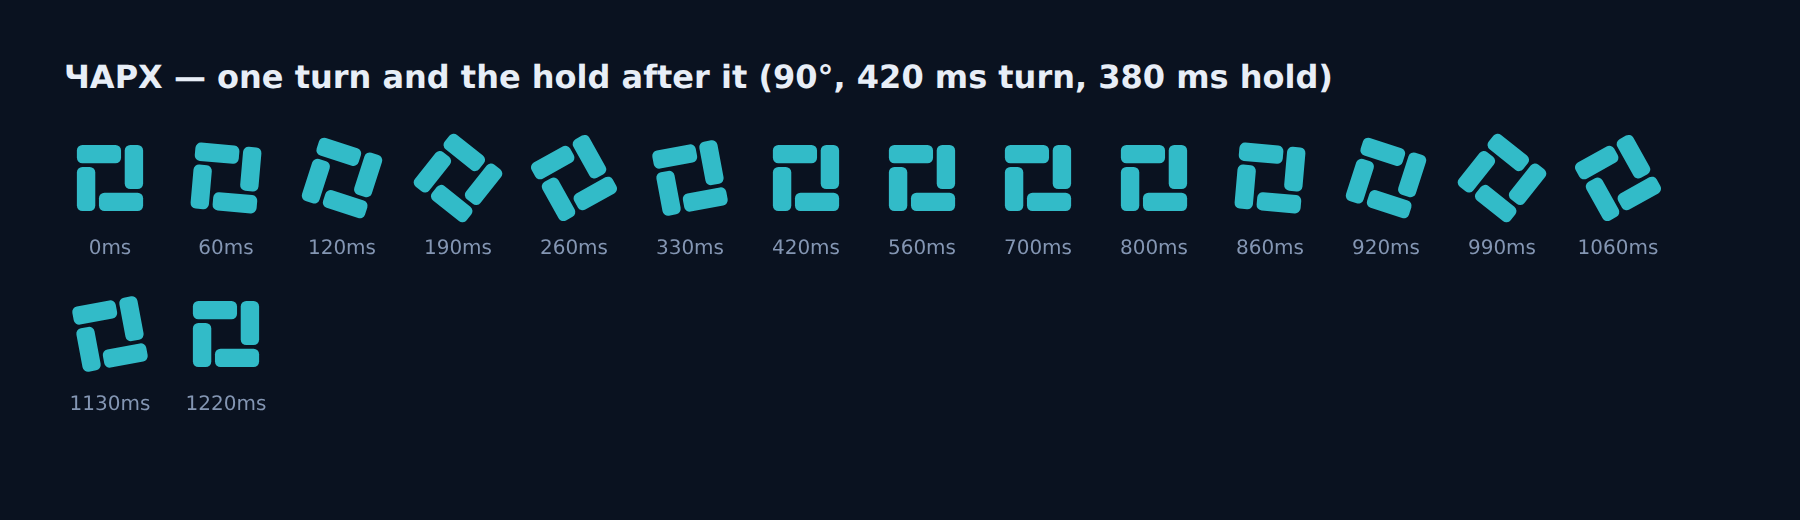
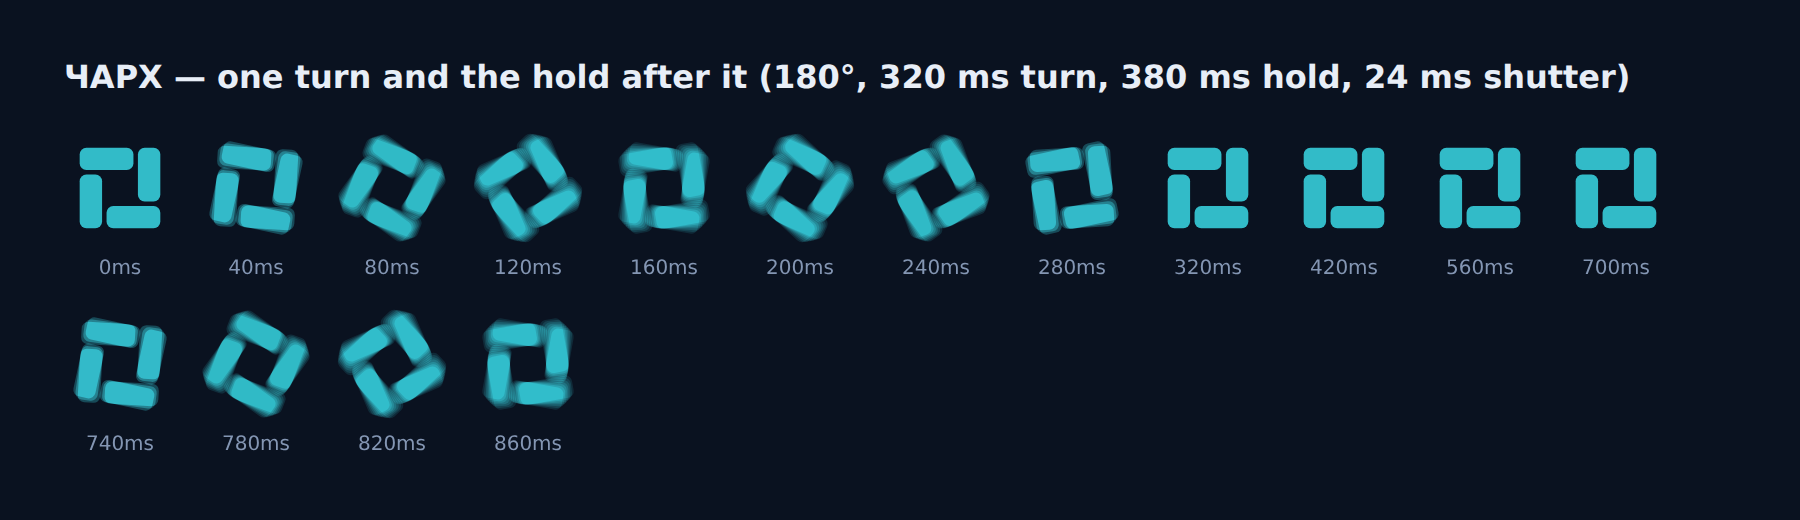
Save 180°/320/380 as the defaults, and add angular blur
The settings are now the page defaults: 180° a turn, 320 ms to turn, 380 ms
hold. Nothing about that timing changed in this commit and nothing in it can be
changed by the new control.

The blur is a shutter, expressed in milliseconds of travel: the mark is smeared
across the angle it sweeps in that long. Because the eased turn is a smoothstep
and its derivative is 6x(1-x), the speed is zero the instant the turn starts,
zero the instant it finishes, and zero for the whole hold — so the mark softens
only while it is genuinely moving fast and comes back sharp on its own, without
any of that having to be special-cased.

It is real angular blur, not a filter over the top: the mark is drawn many times
across the arc and accumulated additively into a scratch canvas, so k
overlapping samples come out at k/n coverage. Drawing the samples with ordinary
source-over instead leaves the solid core at about 65% opacity and the whole
mark washed out, which is the obvious way to do this and the wrong one. Sample
count follows how far the outer corner actually travels, so a 20 px mark costs a
handful and a 96 px one a couple of dozen, and the scratch canvas is kept per
size rather than allocated per frame.

Default shutter is 24 ms, picked by rendering the turn at 0, 12, 20, 28, 40 and
60 and looking: 20 reads as motion while the shape stays legible, 40 dissolves
it into a ring. The slider goes to 90 if more is wanted.

Worst frame 16.8 ms, including with the shutter pushed to its maximum.
[…]

diff --git a/docs/brand/samani.html b/docs/brand/samani.html
@@ -107,6 +107,14 @@
     spinning. Anything else leaves it resting at an angle it has never rested at
     before, which is a different feeling entirely and worth trying.
   </p>
+  <p>
+    The fourth number is not timing. <b>Blur</b> is a shutter: the mark is
+    smeared across the angle it sweeps in that many milliseconds, so it softens
+    while it is moving fastest and is perfectly sharp the moment it stops.
+    Nothing about when or how far it turns depends on it — at 0&nbsp;ms the
+    animation is identical, just hard-edged. Past about 40&nbsp;ms the mark
+    dissolves into a ring.
+  </p>
 
   <div class="stage">
     <figure><canvas id="big"></canvas><figcaption>96 px</figcaption></figure>
@@ -118,16 +126,20 @@
 
   <div class="knobs">
     <div class="knob">
-      <label for="deg">Each turn <output id="deg-out">90°</output></label>
-      <input type="range" id="deg" min="15" max="180" step="5" value="90">
+      <label for="deg">Each turn <output id="deg-out">180°</output></label>
+      <input type="range" id="deg" min="15" max="180" step="5" value="180">
     </div>
     <div class="knob">
-      <label for="turn">Turn <output id="turn-out">420 ms</output></label>
-      <input type="range" id="turn" min="120" max="900" step="20" value="420">
+      <label for="turn">Turn <output id="turn-out">320 ms</output></label>
+      <input type="range" id="turn" min="120" max="900" step="20" value="320">
     </div>
     <div class="knob">
       <label for="hold">Hold <output id="hold-out">380 ms</output></label>
       <input type="range" id="hold" min="0" max="900" step="20" value="380">
+    </div>
+    <div class="knob">
+      <label for="blur">Blur <output id="blur-out">24 ms</output></label>
+      <input type="range" id="blur" min="0" max="90" step="2" value="24">
     </div>
   </div>
   <p id="derived" class="lede" style="font-size:.8125rem;margin-top:1rem"></p>
@@ -141,6 +153,12 @@
     <p>
       Four bars, one colour, firuza at <code>#32BBC8</code>. Nothing else moves
       and nothing changes colour.
+    </p>
+    <p>
+      The blur is real angular blur — the mark drawn many times across the arc
+      it sweeps and accumulated, not a soft filter laid over the top. The number
+      of copies follows how far the outer corner actually travels, so a 20&nbsp;px
+      mark costs a handful and a 96&nbsp;px one costs a couple of dozen.
     </p>
     <p>
       Under reduced motion the mark stands still and a word carries the state,
@@ -163,7 +181,11 @@
     [14, 38, 20, 48],   // left, bottom to top
   ];
 
-  let turnMs = 420, holdMs = 380, stepDeg = 90;
+  let turnMs = 320, holdMs = 380, stepDeg = 180;
+  // Shutter time, in milliseconds of travel. Purely visual: it smears the mark
+  // across the angle it sweeps in this long, and changes nothing about when or
+  // how far it turns.
+  let blurMs = 24;
   // The angle is accumulated from a moving origin rather than computed straight
   // from the clock. Without that, changing a slider rescales every turn that has
   // already happened and the mark jumps by whatever it had built up.
@@ -199,6 +221,19 @@
     return originAngle + (n + k) * (stepDeg * Math.PI / 180);
   }
 
+  // How fast the mark is turning right now, in radians per millisecond. The
+  // eased turn is a smoothstep, whose derivative is 6x(1-x): zero at both ends,
+  // fastest in the middle. So this is zero the instant the turn starts, zero the
+  // instant it finishes, and zero for the whole hold — which is exactly when the
+  // mark should be sharp, without anything having to say so.
+  function angularSpeed(ms) {
+    const step = turnMs + holdMs;
+    const within = Math.max(0, ms - originMs) % step;
+    if (within >= turnMs) return 0;
+    const x = within / turnMs;
+    return (stepDeg * Math.PI / 180) * (6 * x * (1 - x)) / turnMs;
+  }
+
   // Freeze where the mark is now, so the next frame carries on from here under
   // whatever the new numbers are.
   function reanchor() {
@@ -207,23 +242,75 @@
     originMs = now;
   }
 
-  function draw(cv, px, angle) {
-    const g = cv.getContext("2d");
+  function bars(g, px, angle, colour) {
     const u = px / 100;
-    g.save();
-    g.setTransform(1, 0, 0, 1, 0, 0);
-    g.clearRect(0, 0, cv.width, cv.height);
-    g.restore();
     g.save();
     g.translate(px / 2, px / 2);
     g.rotate(angle);
     g.translate(-px / 2, -px / 2);
-    g.fillStyle = firuza;
+    g.fillStyle = colour;
     for (const [x, y, w, h] of BARS) {
       g.beginPath();
       g.roundRect(x * u, y * u, w * u, h * u, 6 * u);
       g.fill();
     }
+    g.restore();
+  }
+
+  const clear = (g, cv) => {
+    g.save(); g.setTransform(1, 0, 0, 1, 0, 0);
+    g.clearRect(0, 0, cv.width, cv.height); g.restore();
+  };
+
+  // One scratch canvas per size, kept rather than rebuilt: allocating a canvas
+  // per frame is the expensive way to do this.
+  const scratches = new WeakMap();
+  function scratchFor(cv, px) {
+    let o = scratches.get(cv);
+    if (!o || o.width !== cv.width) {
+      o = document.createElement("canvas");
+      o.width = cv.width; o.height = cv.height;
+      const dpr = Math.min(window.devicePixelRatio || 1, 2);
+      o.getContext("2d").setTransform(dpr, 0, 0, dpr, 0, 0);
+      scratches.set(cv, o);
+    }
+    return o;
+  }
+
+  // The corner of the mark, as a fraction of the box. Bars run to 86 of 100, so
+  // the far corner sits at hypot(36, 36) ≈ 51 units from the centre — that is
+  // the radius whose arc decides how many samples the smear needs.
+  const MARK_RADIUS = 0.51;
+
+  function draw(cv, px, angle, smear) {
+    const g = cv.getContext("2d");
+    clear(g, cv);
+
+    if (!(smear > 0.002)) {          // held, or at either end of the turn
+      bars(g, px, angle, firuza);
+      return;
+    }
+
+    // Real angular blur: the mark drawn many times across the angle it sweeps
+    // during one shutter, accumulated additively so k overlapping samples come
+    // out at k/n coverage. Drawing them with ordinary source-over instead would
+    // leave the solid core at about 65% opacity and the whole mark washed out.
+    const arc = px * MARK_RADIUS * smear;
+    const samples = Math.min(24, Math.max(2, Math.ceil(arc / 1.5)));
+    const o = scratchFor(cv, px);
+    const og = o.getContext("2d");
+    clear(og, o);
+    og.globalCompositeOperation = "lighter";
+    og.globalAlpha = 1 / samples;
+    for (let i = 0; i < samples; i++) {
+      bars(og, px, angle - smear / 2 + smear * (i / (samples - 1)), firuza);
+    }
+    og.globalAlpha = 1;
+    og.globalCompositeOperation = "source-over";
+
+    g.save();
+    g.setTransform(1, 0, 0, 1, 0, 0);
+    g.drawImage(o, 0, 0);
     g.restore();
   }
 
@@ -235,13 +322,14 @@
   function frame(now) {
     rafId = 0;
     const angle = angleAt(now);
-    for (const [cv, px] of canvases) draw(cv, px, angle);
+    const smear = angularSpeed(now) * blurMs;
+    for (const [cv, px] of canvases) draw(cv, px, angle, smear);
     if (motion) rafId = requestAnimationFrame(frame);
   }
 
   function paintStill() {
     readTheme();
-    for (const [cv, px] of canvases) draw(cv, px, 0);
+    for (const [cv, px] of canvases) draw(cv, px, 0, 0);
   }
 
   const stillLabel = document.getElementById("still-label");
@@ -283,6 +371,7 @@
     ["deg", (v) => (stepDeg = v), (v) => v + "°"],
     ["turn", (v) => (turnMs = v), (v) => v + " ms"],
     ["hold", (v) => (holdMs = v), (v) => v + " ms"],
+    ["blur", (v) => (blurMs = v), (v) => v + " ms"],
   ];
   for (const [id, set, format] of KNOBS) {
     const input = document.getElementById(id);
@@ -309,15 +398,16 @@
   // So a still of the turn can be sampled at chosen moments rather than caught
   // mid-flight. `pnpm brand:render` uses it.
   window.SakinaCharkh = {
-    paint(canvas, px, ms, turn, hold, deg) {
-      const previous = [turnMs, holdMs, stepDeg, originMs, originAngle];
+    paint(canvas, px, ms, turn, hold, deg, blur) {
+      const previous = [turnMs, holdMs, stepDeg, blurMs, originMs, originAngle];
       if (turn) turnMs = turn;
       if (hold) holdMs = hold;
       if (deg) stepDeg = deg;
+      if (blur !== undefined) blurMs = blur;
       originMs = 0; originAngle = 0;
       fit(canvas, px);
-      draw(canvas, px, angleAt(ms));
-      [turnMs, holdMs, stepDeg, originMs, originAngle] = previous;
+      draw(canvas, px, angleAt(ms), angularSpeed(ms) * blurMs);
+      [turnMs, holdMs, stepDeg, blurMs, originMs, originAngle] = previous;
     },
   };
 })();
